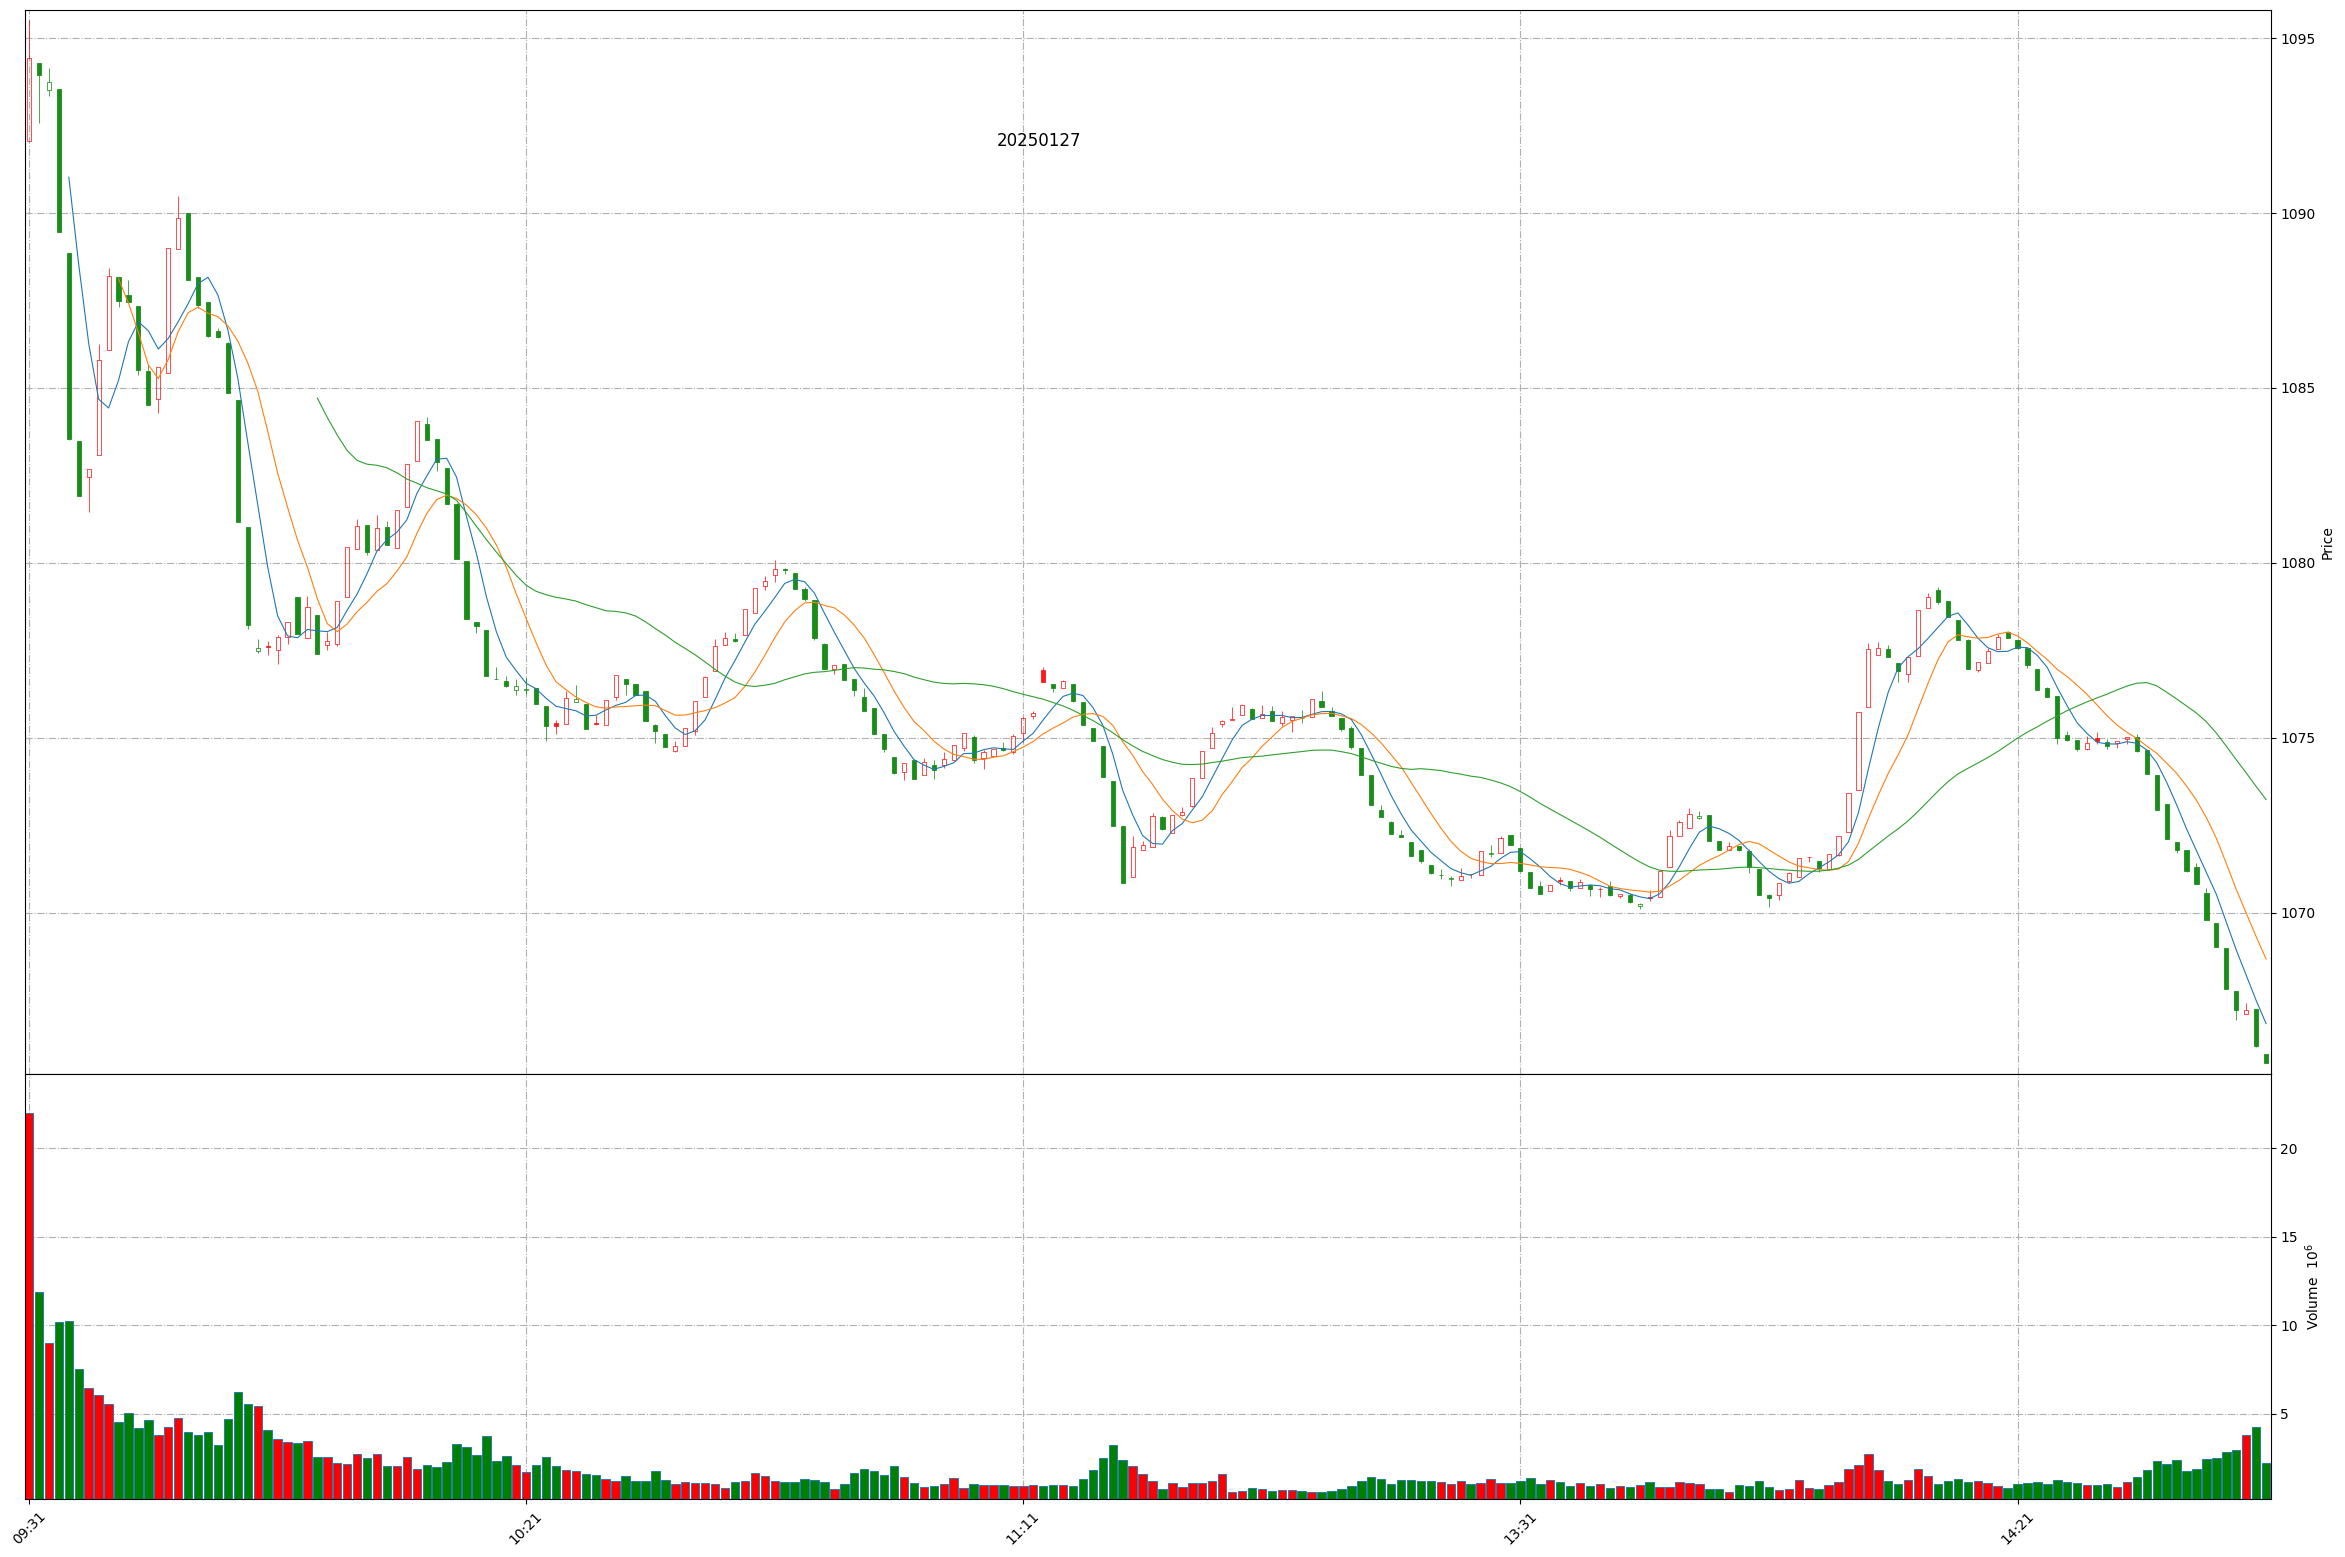
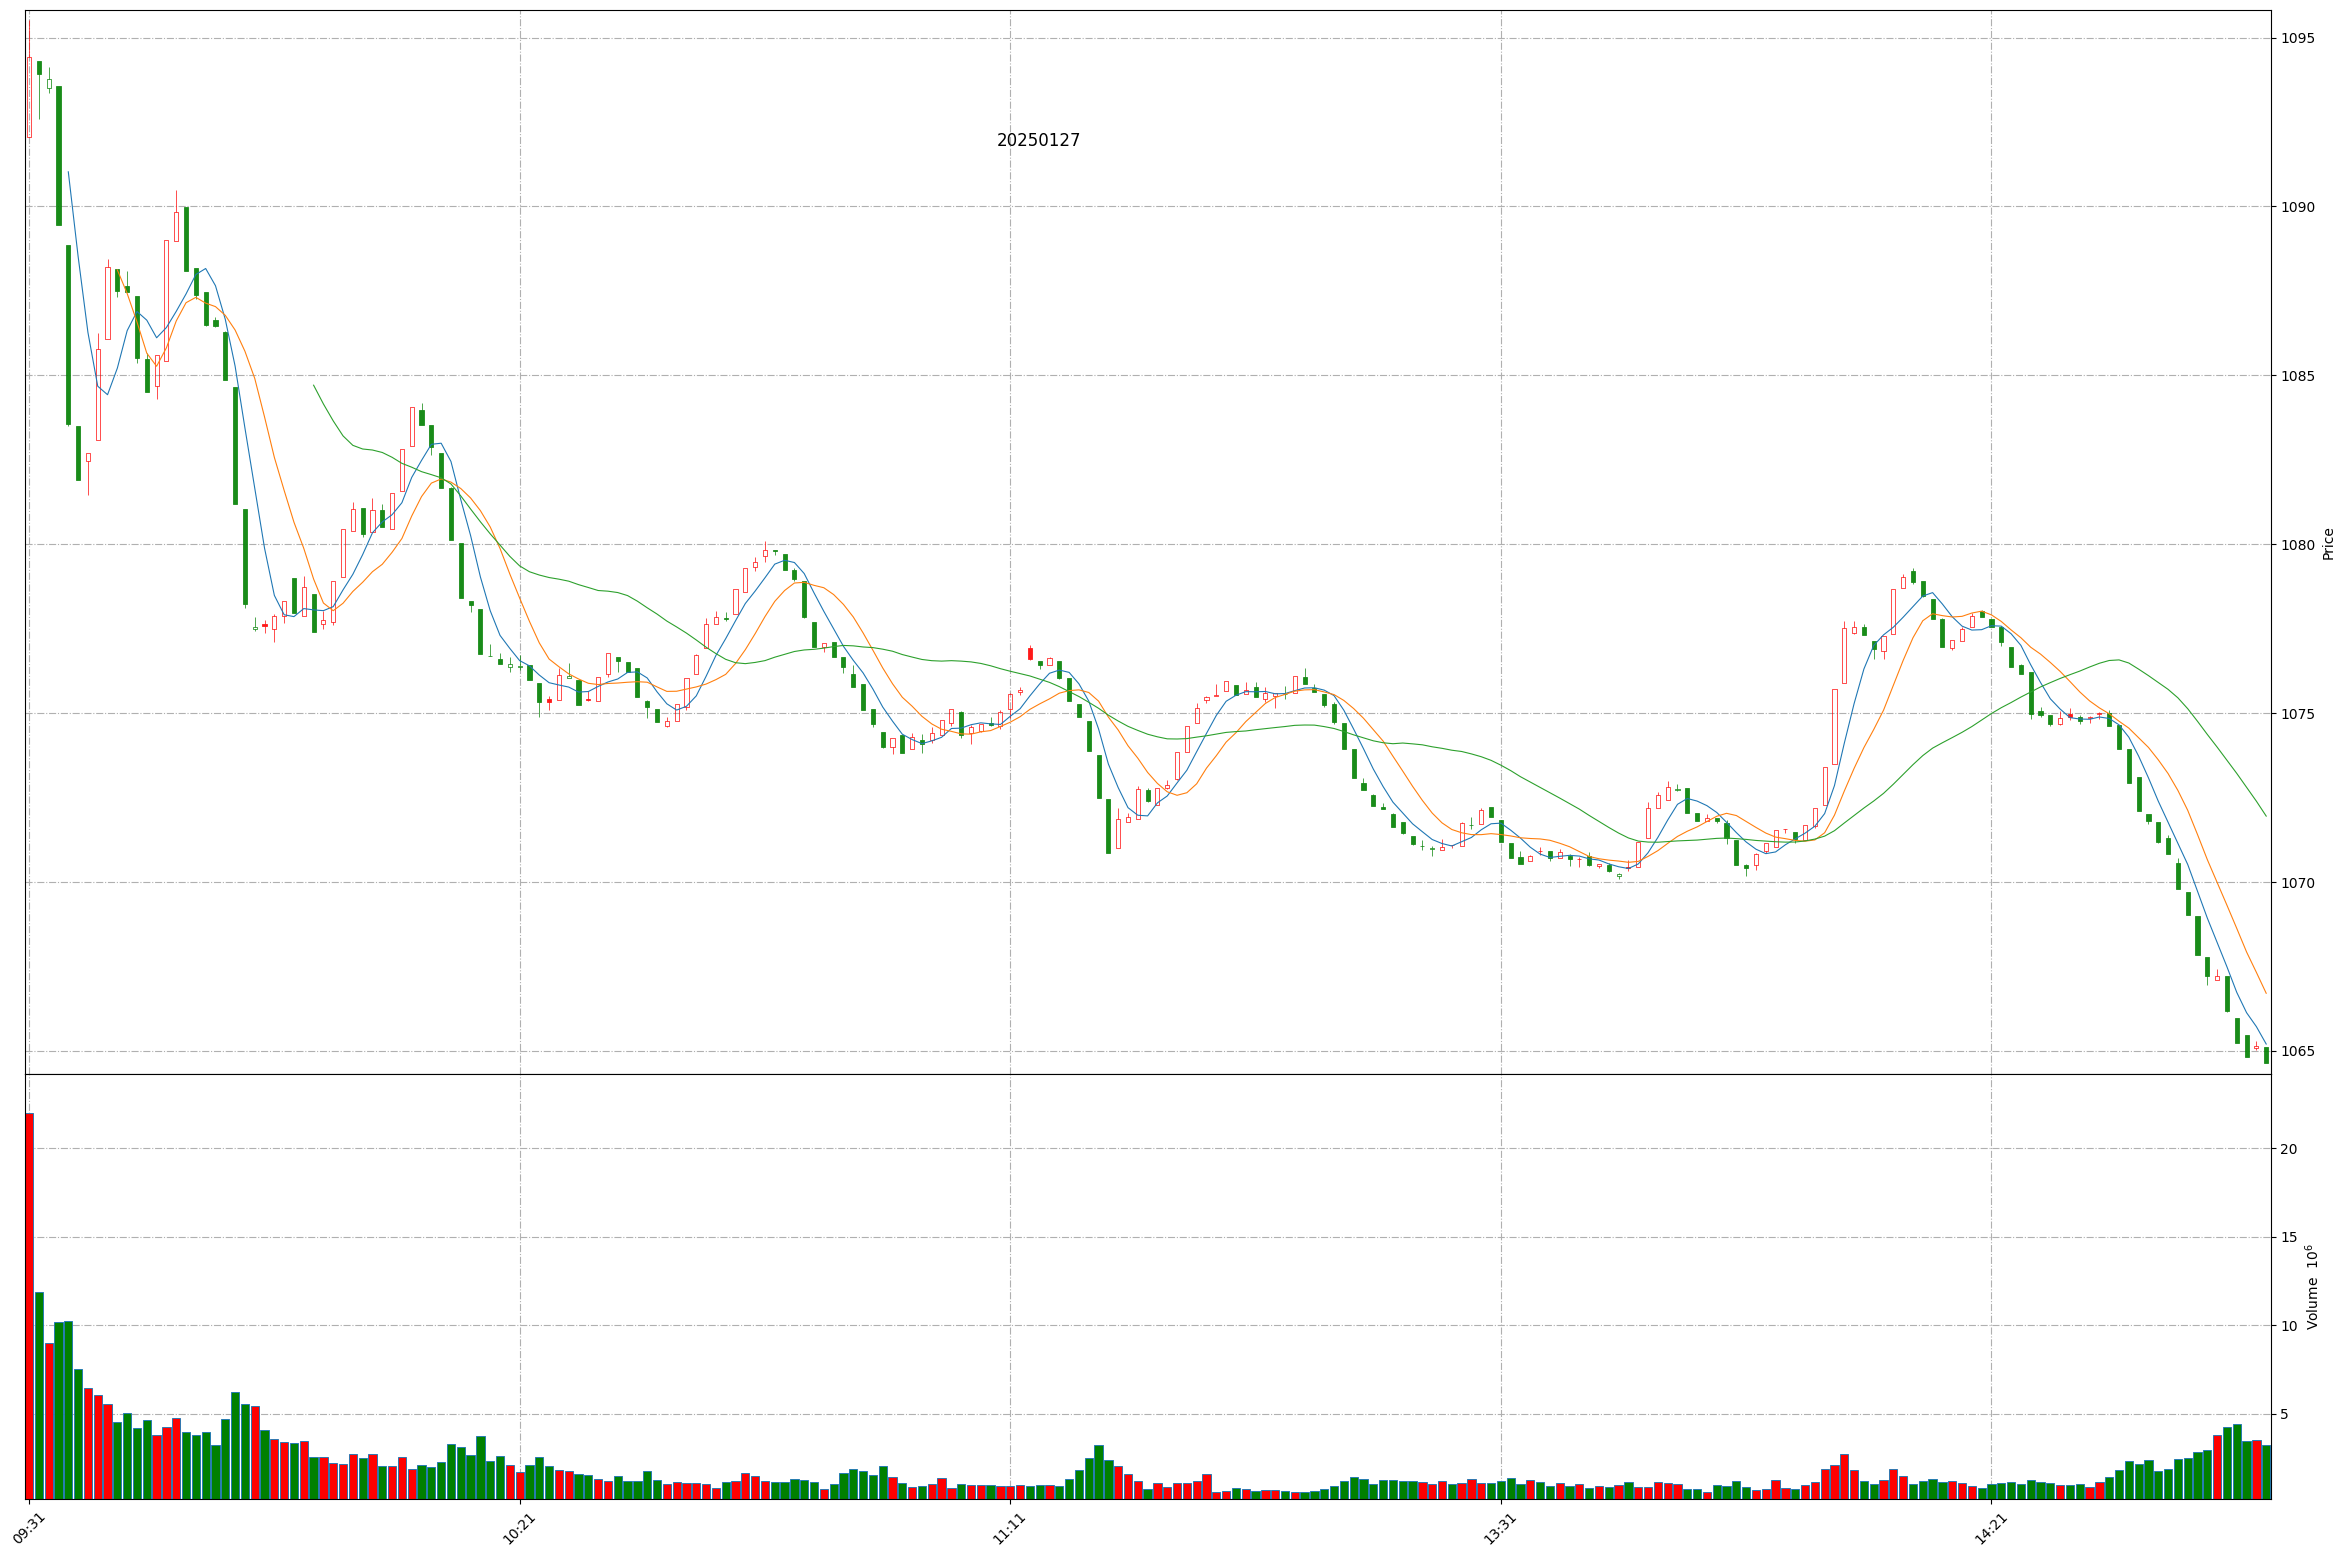
Github action update at 2025-01-27 14:49:03.

diff --git a/README.md b/README.md
@@ -1,11 +1,11 @@
 
 # Daily-A-share-market-quotes 每日 A 股指数（5min 更新）- 20250127
 
-### 上证指数 20250127 14:45
+### 上证指数 20250127 14:49
 ![](./fig/2025/1/20250127-sh000001.png)
 
-### 深证成指 20250127 14:45
+### 深证成指 20250127 14:49
 ![](./fig/2025/1/20250127-sz399001.png)
 
-### 北证50 20250127 14:45
+### 北证50 20250127 14:49
 ![](./fig/2025/1/20250127-bj899050.png)
